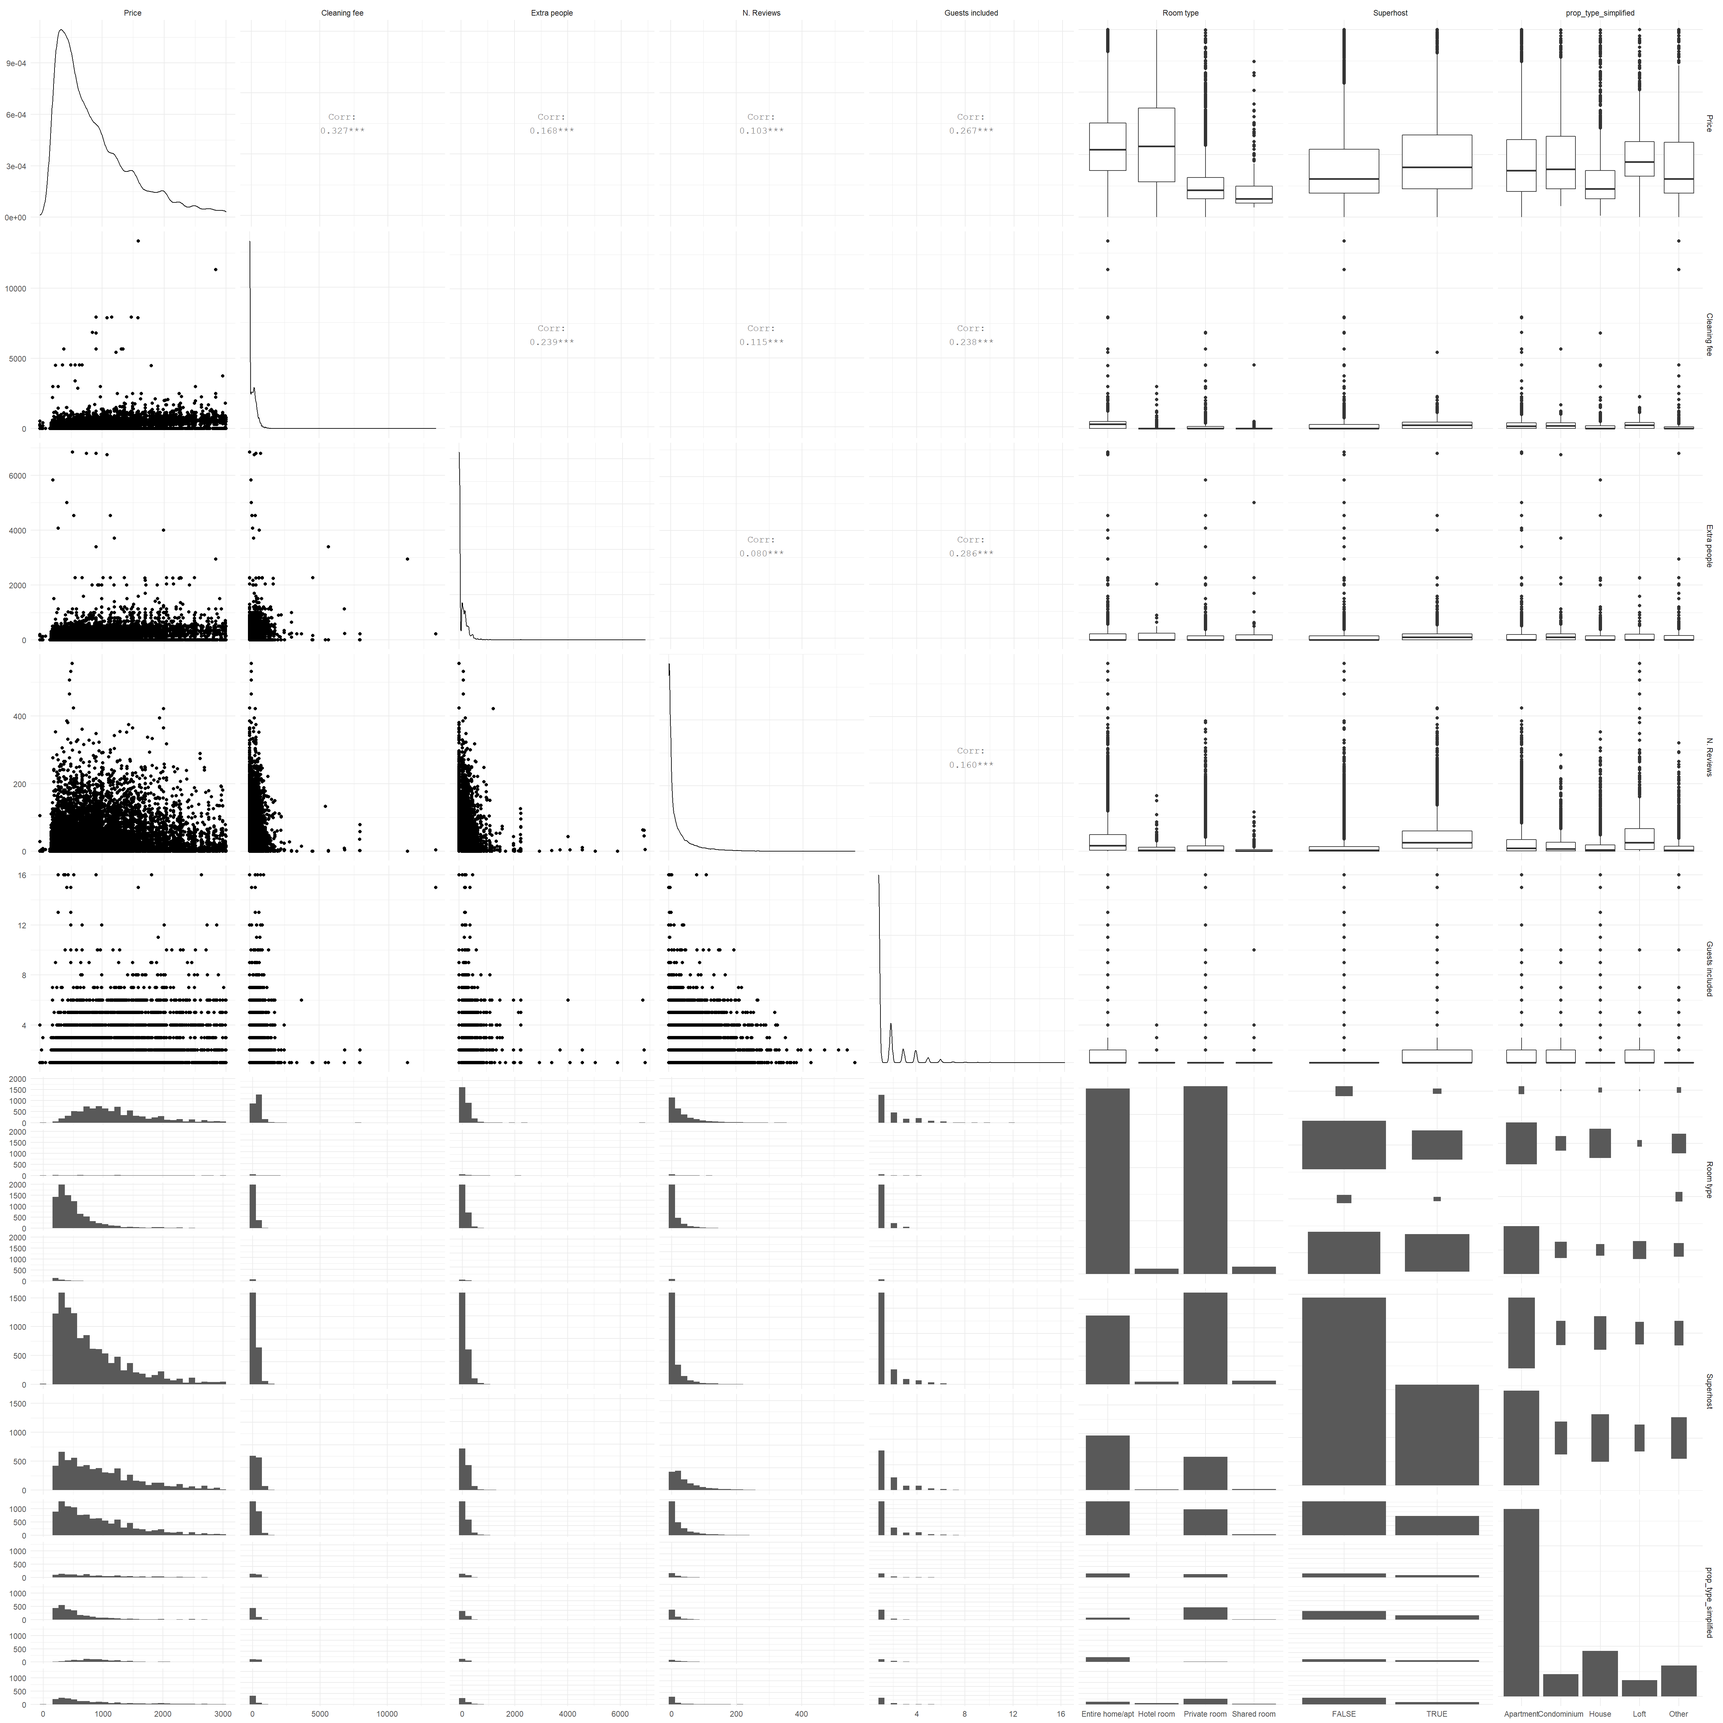
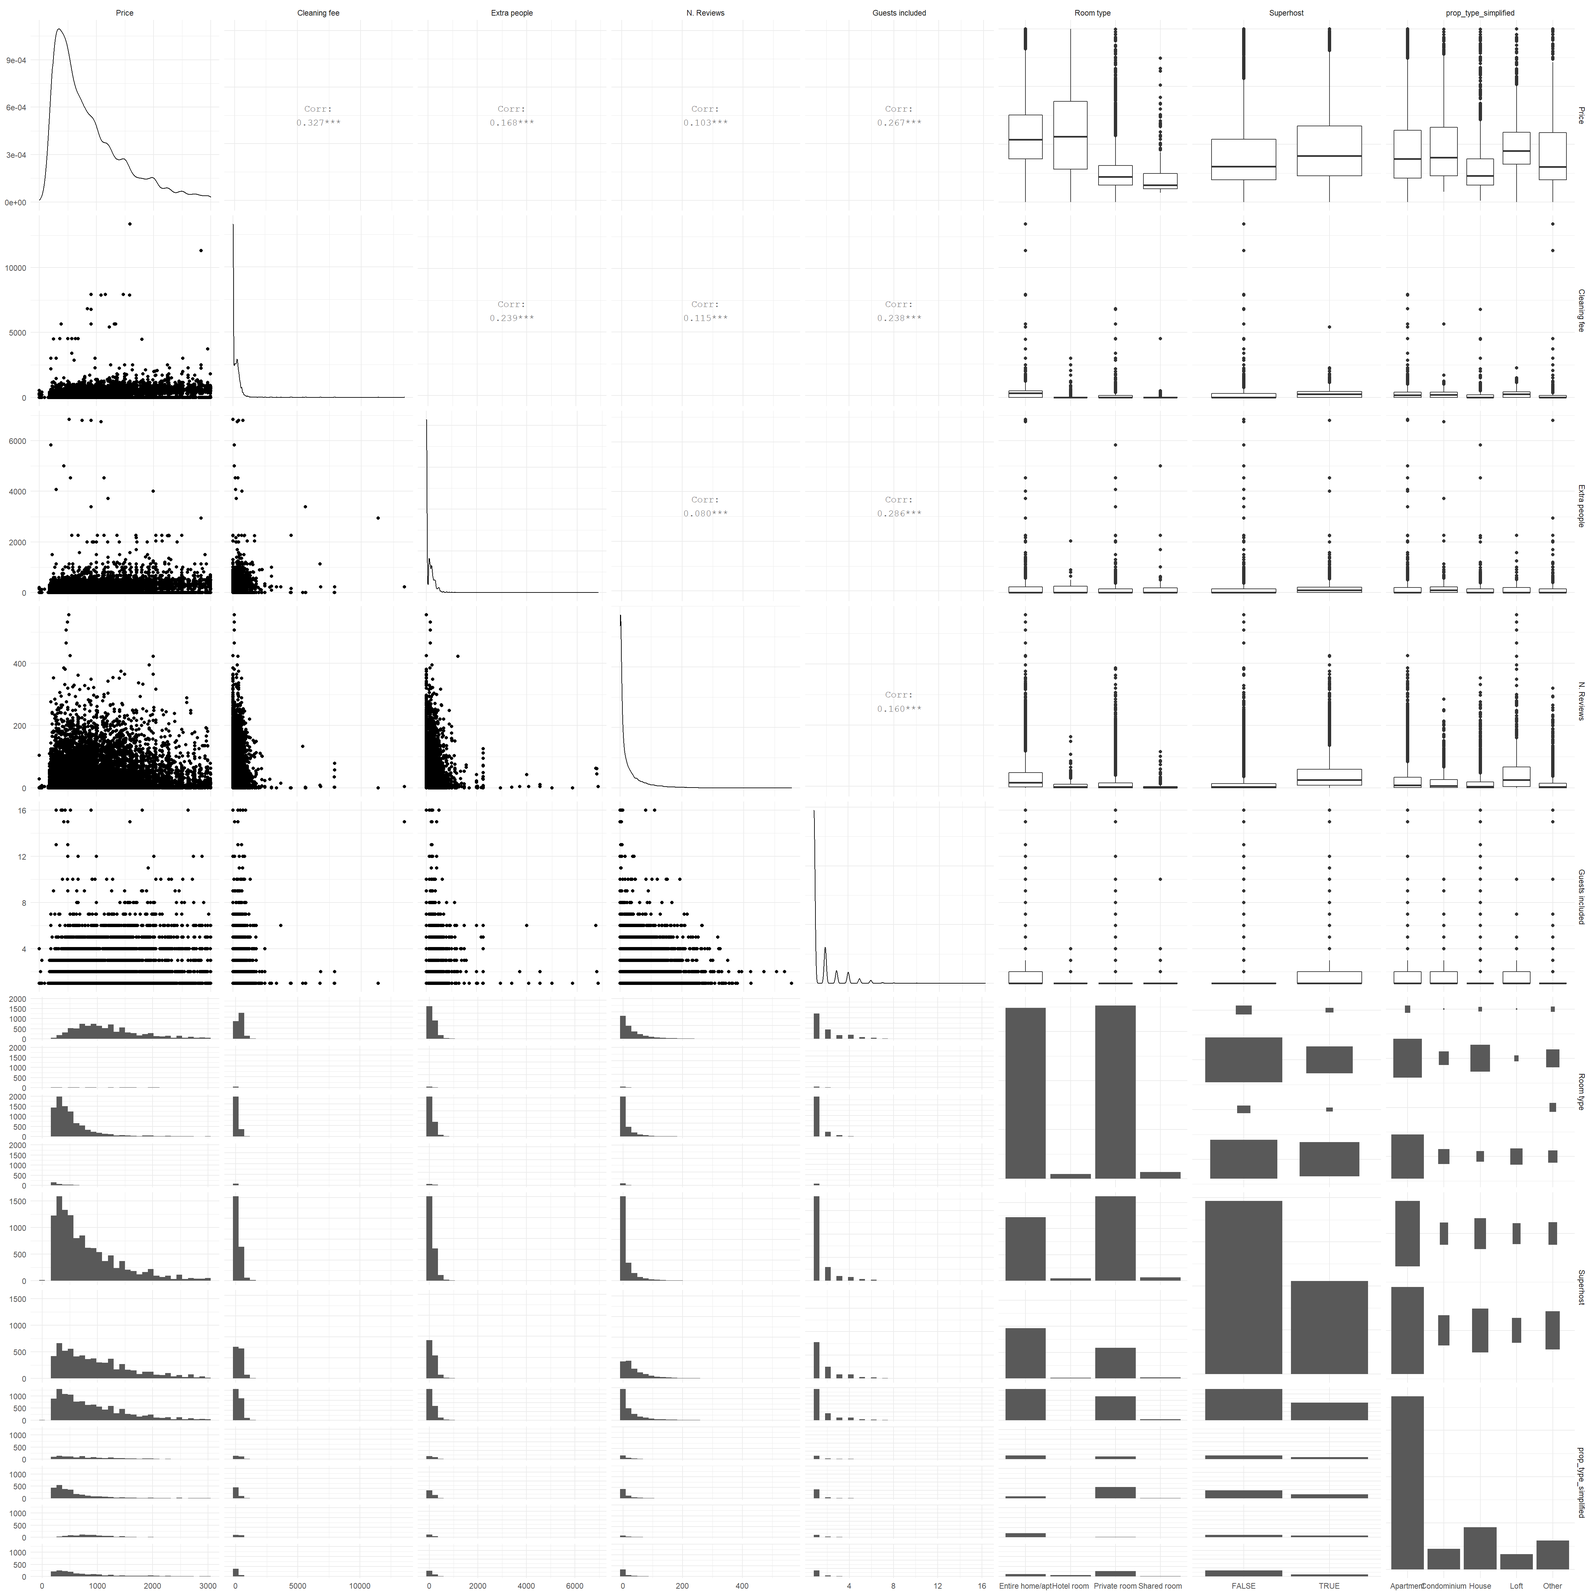
edit

diff --git a/content/projects/project1/index.html b/content/projects/project1/index.html
@@ -29,17 +29,20 @@ output:
 <div id="overview" class="section level1">
 <h1>Overview</h1>
 <p>Using Airbnb data, we created a model with the aim to analyse data about Airbnb listings and <strong>predict the total cost for two people staying four nights in Mexico city</strong>.</p>
-<p>To create a successful model we had to:
-- Apply data-cleaning techniques to extract data from Airbnb list and create a dataset.
-- Use descriptive statistics to conduct data modification and relevant analysis.
-- Apply multi-regression modeling to visualize and analyze the data that we have collected.</p>
-<p>Our final model takes into consideration the:
-- Neighbourhood
-- Room type
-- N. of bathrooms
-- N. of bedrooms .</p>
-<p>The model predicts that an apartment with a private room in Tlalpan (M.C.) which has over 15 reviews and an average
-review score above 95/100 will cost, on average, 2,063 MXN $ with a 95% confidence interval ranging from 2,035 to 2,090.</p>
+<p>To create a successful model we had to:</p>
+<ul>
+<li>Apply data-cleaning techniques to extract data from Airbnb list and create a dataset.</li>
+<li>Use descriptive statistics to conduct data modification and relevant analysis.
+Apply multi-regression modeling to visualize and analyze the data that we have collected.</li>
+</ul>
+<p>Our final model takes into consideration the:</p>
+<ul>
+<li>Neighbourhood</li>
+<li>Room type</li>
+<li>N. of bathrooms</li>
+<li>N. of bedrooms</li>
+</ul>
+<p>The model predicts that an apartment with a private room in the neighbourhoood of Tlalpan, Mexico City, which has over 15 reviews and an average review score above 95/100 will cost, on average, 2,063 MXN$ with a 95% confidence interval ranging from 2,035 to 2,090.</p>
 <div id="loading-the-data" class="section level3">
 <h3>Loading the data</h3>
 <p>We use as source: www.insideairbnb.com
@@ -53,15 +56,17 @@ Airbnb listings data was scraped directlyfrom airbnb.com</p>
 <h2>Inspecting the data</h2>
 <p>In the original data set, we collected <strong>21,824</strong> values across <strong>106 variables</strong> of which 52 are character, 15 are logical, and 38 are numerical. As we can tell, many variables are either URLs or descriptions which could not be used as predictive variables.</p>
 <p>Thus, we first applied glimpse and skim to look through the data set and chose what we believe could be used in the later analysis stage.</p>
-<p>Glimpse and skim are two of my favourite functions (others being <em>table</em>, <em>favstats</em>, and <em>summary</em>) allow us to understand better the dataset we are working with,
-- <strong>Glimpse</strong> gives us a summary of the variables and observations included.
-- <strong>Skim</strong> provides us with useful information concerning the missing data, a.k.a. NAs</p>
+<p>Glimpse and skim are two of my favourite functions (others being <em>table</em>, <em>favstats</em>, and <em>summary</em>) allow us to understand better the dataset we are working with:</p>
+<ul>
+<li><strong>Glimpse</strong> gives us a summary of the variables and observations included.</li>
+<li><strong>Skim</strong> provides us with useful information concerning the missing data, a.k.a. NAs</li>
+</ul>
 <p>Here, we start selecting specific variable that may be useful for our deep analysis later in the process.</p>
 <pre class="r"><code>tidy_listings &lt;- listings %&gt;% 
 dplyr::select(host_is_superhost, neighbourhood_cleansed, latitude, longitude, is_location_exact, property_type, room_type,
               bathrooms, bedrooms, beds, square_feet, price, cleaning_fee, extra_people, number_of_reviews, review_scores_rating,
               cancellation_policy, availability_365, amenities, host_identity_verified, minimum_nights, guests_included)</code></pre>
-<p>Looking through the raw data set, we will drop variable <strong>square_feet</strong> because most airbnb houses (21,758) do not provide it so it will not be a meaningful predictive variable and a large amount of NA values will influence our analysis later.</p>
+<p>Looking through the raw data set, we will drop variable <strong>square_feet</strong> because most airbnb houses (21,758) do not provide it, so it will not be a meaningful predictive variable and a large amount of NA values will influence our analysis later.</p>
 <pre class="r"><code>tidy_listings &lt;- tidy_listings %&gt;% 
 dplyr::select(-square_feet)</code></pre>
 </div>
@@ -71,8 +76,8 @@ dplyr::select(-square_feet)</code></pre>
 <p>Also, it is not meaningful to have too many <strong>neighbourhoods</strong> for our later analysis. Thus, we use six neighbourhoods with the largest Airbnb counts and combine other neighbourhoods into these six according to geographical closeness.</p>
 <p>Besides, <strong>amenities</strong> are in lists right now which could not be used to predict price so we create a new variable named amenities_clean that stores amenity counts.</p>
 <p>Since the vast majority of the observations in the data are one of the top four or five <strong>property types</strong>, we would like to create a simplified version of property_type variable that has five categories: the top four categories and Other.</p>
-<p>Moreover, as we only care about houses that offer four-night renting, we filter data set to only include <strong>minimum nights</strong> less than or equal to 4 nights.</p>
-<p>Lastly, We also create a new variable named <strong>price_4_nights</strong> to calculate the total cost for two people to stay at the Airbnb property for 4 nights.</p>
+<p>Moreover, as we only care about houses that offer four-night renting, we filter data set to only include <strong>minimum nights</strong> less than or equal to four nights.</p>
+<p>Lastly, We also create a new variable named <strong>price_4_nights</strong> to calculate the total cost for two people to stay at the Airbnb property for four nights.</p>
 <pre class="r"><code>### Changing characters variables to numerical ones
 tidy_listings &lt;- tidy_listings %&gt;%
   mutate(price = parse_number(price), cleaning_fee = parse_number(cleaning_fee), 
@@ -137,7 +142,7 @@ We assumed ‘NA’ values appear when the host has left the additional <strong>
 <h2>Handling Missing values</h2>
 <p>Let us drop all the rows which include NA values in our data set.</p>
 <p>The point is that we cannot keep missing observations because they will mess up our regressions later in the analysis.</p>
-<pre class="r"><code>#tidy_listings %&gt;%
+<pre class="r"><code># tidy_listings %&gt;%
   #dplyr::filter(!is.na(number_of_reviews),
          #!is.na(bathrooms),
          #!is.na(bedrooms),
@@ -195,10 +200,10 @@ tidy_listings &lt;- tidy_listings %&gt;%
   theme_minimal() 
 
 ggpairs1</code></pre>
-<p><img src="index_files/figure-html/unnamed-chunk-7-1.png" width="100%" style="display: block; margin: auto;" /></p>
+<p><img src="index_files/figure-html/unnamed-chunk-7-1.png" width="125%" style="display: block; margin: auto;" /></p>
 </div>
-<div id="boxplot-of-prices-across-selected-neighbourhoods" class="section level3">
-<h3>Boxplot of prices across selected neighbourhoods</h3>
+<div id="central-mexico-city-is-for-the-rich" class="section level3">
+<h3>Central Mexico City is for the rich</h3>
 <pre class="r"><code>ggplot(tidy_listings, aes(x = reorder(neighbourhood_simplified, price),
                           y = price, 
                           fill = neighbourhood_simplified)) +
@@ -214,7 +219,9 @@ ggpairs1</code></pre>
   theme(axis.text.x=element_blank(), axis.ticks.x=element_blank())</code></pre>
 <p><img src="index_files/figure-html/unnamed-chunk-8-1.png" width="1248" style="display: block; margin: auto;" />
 It is evident and logical that the most central areas such as Miguel Hidalgo, and Cuauhtemoc Alvaro Obregon of Mexico City are the most high-priced too.</p>
-<p>###Boxplot of prices across selected types of properties</p>
+</div>
+<div id="everyone-dreams-about-a-loft-in-mexico-city" class="section level3">
+<h3>Everyone dreams about a loft in Mexico City</h3>
 <pre class="r"><code>prop_plot &lt;- tidy_listings  %&gt;%
   filter(price &lt;= 2000)
 
@@ -231,11 +238,11 @@ ggplot(prop_plot, aes(reorder(x = prop_type_simplified, price),
   scale_fill_discrete(name = &quot;Property type&quot;) +
   theme(axis.text.x=element_blank(), axis.ticks.x=element_blank())</code></pre>
 <p><img src="index_files/figure-html/unnamed-chunk-9-1.png" width="1248" style="display: block; margin: auto;" />
-On average, Lofts and Condominia are the most exclusive kinds of property where a couple could stay for a few night in Mexico City.
+On average, lofts and condominia are the most exclusive kinds of property where a couple could stay for a few night in Mexico City.
 However, there are a lot of outliers across all the categories considered that may confuse the analysis.</p>
 </div>
-<div id="total-number-of-rooms-by-most-common-type" class="section level3">
-<h3>Total number of rooms by most common type</h3>
+<div id="couples-seek-the-right-intimacy-in-mexico-city" class="section level3">
+<h3>Couples seek the right intimacy in Mexico City</h3>
 <pre class="r"><code>Bar_chart &lt;- tidy_listings %&gt;%
    mutate(&#39;room_type&#39; = factor(`room_type`, levels = c(&quot;Hotel room&quot;,
                                                        &quot;Shared room&quot;,
@@ -256,8 +263,8 @@ ggplot(Bar_chart, aes(x= room_type,
 <p><img src="index_files/figure-html/unnamed-chunk-10-1.png" width="648" style="display: block; margin: auto;" />
 The vast majority of habitations offered in Mexico City are either a private room or an entire home/apartment.</p>
 </div>
-<div id="boxplot-of-prices-for-superhosts-and-normal-hosts" class="section level3">
-<h3>Boxplot of prices for superhosts and normal hosts</h3>
+<div id="superhost-can-be-super-expensive" class="section level3">
+<h3>Superhost can be super… expensive</h3>
 <pre class="r"><code>ggplot(tidy_listings, aes(x = host_is_superhost,
                           y = price,
                           fill = host_is_superhost)) +
@@ -283,31 +290,32 @@ Therefore, we run a correlation test to check it.</p>
   geom_point() + 
   labs(x = &quot;Number of reviews (#)&quot;,
        y = &quot;Price per night (MXN $)&quot;) +
-  theme_bw()
-
-ggplot(tidy_listings, aes(x = number_of_reviews)) +
+  theme_bw()</code></pre>
+<p><img src="index_files/figure-html/unnamed-chunk-12-1.png" width="648" style="display: block; margin: auto;" /></p>
+<pre class="r"><code>ggplot(tidy_listings, aes(x = number_of_reviews)) +
   geom_density() + 
   labs(x = &quot;Number of reviews (#)&quot;,
        y = &quot;Density&quot;) +
-  theme_bw()
-
-cor(tidy_listings$number_of_reviews, tidy_listings$price,
-    use = &quot;complete.obs&quot;)
-
-tidy_review &lt;- tidy_listings %&gt;% 
+  theme_bw()</code></pre>
+<p><img src="index_files/figure-html/unnamed-chunk-12-2.png" width="648" style="display: block; margin: auto;" /></p>
+<pre class="r"><code>cor(tidy_listings$number_of_reviews, tidy_listings$price,
+    use = &quot;complete.obs&quot;)</code></pre>
+<pre><code>## [1] 0.103</code></pre>
+<pre class="r"><code>tidy_review &lt;- tidy_listings %&gt;% 
   filter(number_of_reviews &lt;= 20)
 ggplot(tidy_review, aes(x= number_of_reviews,
                         y= price)) +
   geom_point() + 
   labs(x = &quot;Number of reviews (#)&quot;,
        y = &quot;Price per night (MXN $)&quot;) +
-  theme_bw()
-
-cor(tidy_review$number_of_reviews, tidy_review$price,
+  theme_bw()</code></pre>
+<p><img src="index_files/figure-html/unnamed-chunk-12-3.png" width="648" style="display: block; margin: auto;" /></p>
+<pre class="r"><code>cor(tidy_review$number_of_reviews, tidy_review$price,
     use = &quot;complete.obs&quot;)</code></pre>
+<pre><code>## [1] 0.0354</code></pre>
 </div>
-<div id="distribution-of-cleaning-fee-charge" class="section level3">
-<h3>Distribution of cleaning fee charge</h3>
+<div id="most-hosts-dont-charge-extra-for-cleaning" class="section level3">
+<h3>Most hosts don’t charge extra for cleaning</h3>
 <pre class="r"><code>cleaning_hist &lt;- tidy_listings %&gt;%  filter(cleaning_fee &lt;= 1000) 
 
 
@@ -323,8 +331,8 @@ ggplot(cleaning_hist, aes(x= cleaning_fee)) +
 <p><img src="index_files/figure-html/unnamed-chunk-13-1.png" width="648" style="display: block; margin: auto;" />
 We have filtered out hosts that apply cleaning fees above $1,000 as they are outliers.</p>
 </div>
-<div id="number-of-guests-included-in-the-abitation" class="section level3">
-<h3>Number of guests included in the abitation</h3>
+<div id="sometimes-not-everyone-is-welcome" class="section level3">
+<h3>Sometimes not everyone is welcome</h3>
 <pre class="r"><code>ggplot(tidy_listings, aes(x= guests_included,
                           y= price),
        fill = guests_included) +
@@ -526,7 +534,7 @@ huxreg(final_1)</code></pre>
 ## is_location_exact        1.02  1            1.01
 ## cancellation_policy      1.17  4            1.02
 ## host_identity_verified   1.06  1            1.03</code></pre>
-<p>We fit our first regression model using 12 different independent variables. Seen from the statistics, R2 of the model is great with a value of 0.471 but this model has too many variables and some of which are not that significant so we will delete the one with the largest p value which is cancellation policy.</p>
+<p>Seen from the statistics, R2 of the model is great with a value of 0.423 but this model has too many variables and some of which are not that significant so we will delete the one with the largest p value which is cancellation policy.</p>
 <pre class="r"><code>final_2 &lt;- lm(log_price_4_nights ~ guests_included + amenities_clean + host_is_superhost + neighbourhood_simplified + room_type + prop_type_simplified + bathrooms + bedrooms + beds + is_location_exact + host_identity_verified, data = tidy_listings)
 
 huxreg(final_2)</code></pre>
@@ -642,7 +650,8 @@ huxreg(final_2)</code></pre>
 ## beds                     2.12  1            1.46
 ## is_location_exact        1.02  1            1.01
 ## host_identity_verified   1.05  1            1.02</code></pre>
-<p>We then fit the model with other 11 variables and this model gives us a R2 of 0.468 which is pretty close to before. Thus, we are pretty confident that concellation policy does not have a significant effect on the price_4_night. Then, we continue to delete variables guests_included, amenities_clean, and beds which has largest p value.</p>
+<p>We then fit the model with other 11 variables and this model gives us a R2 of 0.422 which is pretty close to before. Thus, we are pretty confident that cancellation policy does not have a significant effect on the price_4_night.
+Therefore, we continue to delete variables guests_included, amenities_clean, and beds which has largest p value.</p>
 <p>We ran the model again with 8 variables but realised we had to further eliminate some independent variables to bring the AIC down.</p>
 <pre class="r"><code>final_3 &lt;- lm(log_price_4_nights ~ host_is_superhost + neighbourhood_simplified + room_type + prop_type_simplified + bathrooms + bedrooms + is_location_exact + host_identity_verified, data = tidy_listings)
 
@@ -744,7 +753,7 @@ huxreg(final_3)</code></pre>
 ## bedrooms                 2.42  1            1.56
 ## is_location_exact        1.02  1            1.01
 ## host_identity_verified   1.03  1            1.01</code></pre>
-<p>We once again fit the model with other 8 variables and this model gives us a R2 of 0.446 and as we can tell, there are still too many variables in the model.</p>
+<p>We once again fit the model with other 8 variables and this model gives us a R2 of 0.407 and as we can tell, there are still too many variables in the model.</p>
 <pre class="r"><code>final_4 &lt;- lm(log_price_4_nights ~ neighbourhood_simplified + room_type + bathrooms + bedrooms, data = tidy_listings)
 
 huxreg(final_4)</code></pre>
@@ -845,7 +854,7 @@ huxreg(final_4)</code></pre>
 ##   (44 observations deleted due to missingness)
 ## Multiple R-squared:  0.402,  Adjusted R-squared:  0.401 
 ## F-statistic: 1.21e+03 on 10 and 18058 DF,  p-value: &lt;2e-16</code></pre>
-<p>For our final model, we take out is_location_exact, host_is_superhost,and host_identity-verified and the R2 is 0.439.</p>
+<p>For our final model, we take out is_location_exact, host_is_superhost,and host_identity-verified and the R2 is 0.402.</p>
 <pre class="r"><code>target_listings &lt;- tidy_listings %&gt;%
 dplyr::filter(number_of_reviews &gt; 15,
          review_scores_rating &gt; 95,
@@ -900,7 +909,14 @@ model2</code></pre>
 ##                           9.637                         -565.933  
 ##           room_typePrivate room             room_typeShared room  
 ##                       -2855.795                        -3492.220</code></pre>
-<p>For each increase in review_scores_rating, the price of two people for 4 nights will increase by 10.24. If the property type is condominium, the price of 2 people for 4 nights will increase by 229.18; if the property type is house, the price of 2 people for 4 nights will decrease by 1322.8;If the property type is loft, the price of 2 people for 4 nights will increase by 180.51; If the property type is other, the price of 2 people for 4 nights will decrease by 425.48.</p>
+<p>For each increase in review_scores_rating, the price of two people for 4 nights will increase by 10.55.</p>
+<p>Furthermore, we notice the following change in prices according to the property type:</p>
+<ul>
+<li>if the property type is condominium, the price of two people for 4 nights will increase by 240.0</li>
+<li>if the property type is house, the price of two people for 4 nights will decrease by 1318.3</li>
+<li>if the property type is loft, the price of two people for 4 nights will increase by 178.8</li>
+<li>if the property type is other, the price of two people for 4 nights will decrease by 422.6</li>
+</ul>
 </div>
 <div id="outcomes-and-concerns" class="section level1">
 <h1>Outcomes and concerns</h1>
